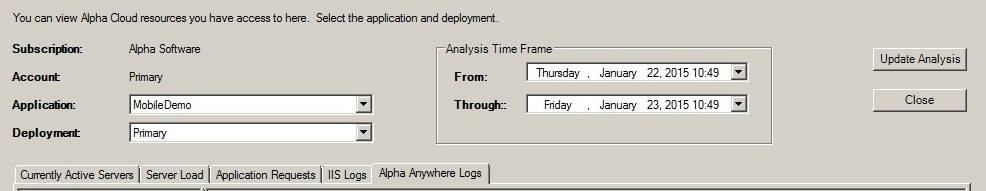
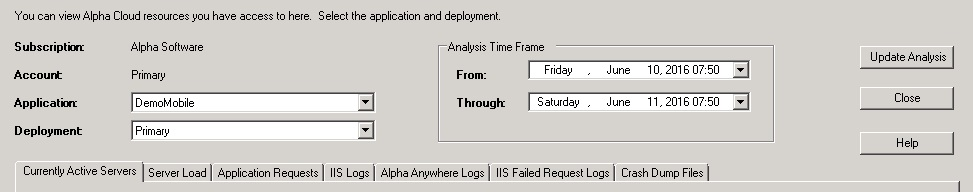
Alpha Cloud - Update screen shots for Cloud View dialog. - Add screen shots and text for Failed Requests and Crash Dump Files tabs.

diff --git a/helpfiles/Guides/Alpha Cloud/Alpha Anywhere Developers Guide/Cloud View.html b/helpfiles/Guides/Alpha Cloud/Alpha Anywhere Developers Guide/Cloud View.html
@@ -21,6 +21,8 @@
 <p><a href="#CloudViewApplicationRequests">The ApplicationRequests Tab Page</a></p>
 <p><a href="#CloudViewIISLogs">The IIS Logs Tab Page</a></p>
 <p><a href="#CloudViewAlphaAnywhereLogs">The Alpha Anywhere Logs Tab Page</a></p>
+<p><a href="#CloudViewIISFailedRequestLogs">The IIS Failed Request Logs Tab Page</a></p>
+<p><a href="#CloudViewCrashDumpFiles">The Crash Dump Files Tab Page</a></p>
 
 
 <h3><a id="CloudViewDialog">The Cloud View Dialog</a></h3>
@@ -110,7 +112,7 @@ To save the current chart to an image file, click the button labeled "Save Chart
 <br/>
 
 <h3><a id="CloudViewIISLogs">The IIS Logs Tab Page</a></h3>
-<p>IIs creates log files for your application to record requests for resources.  These can include web pages, images, reports, and AJAX callbacks.</p><br/>
+<p>IIS creates log files for your application to record requests for resources.  These can include web pages, images, reports, and AJAX callbacks.</p><br/>
 <p>Alpha Cloud configures the Advanced Logging Module from Microsoft to create one log for each deployed application each hour that your application is deployed on that server.  Alpha Cloud automatically copies the logs from the running server to cloud storage.  The logs can be retrieved and reviewed at a later time even if the server itself is terminated.</p><br/>
 <p>The IIS Logs tab page lists the logs created during the time you specified as your analysis time frame and presents them in a tree view display by host name and then date and time and then displays them again by date and time and then by host name.  If you open the tree view to the lowest level in the tree and double click on that entry, the log is retrieved and displayed in the text box on the right-hand pane of the dialog.</p> 
 <br/>
@@ -131,17 +133,52 @@ To save the current chart to an image file, click the button labeled "Save Chart
 	</ul>
 	  
 <br/>
-<h4><a id="CloudViewalphaAnywhereLogsContent">The Alpha Anywhere Logs Content Tab</a></h4>
+<h4><a id="CloudViewAlphaAnywhereLogsContent">The Alpha Anywhere Logs Content Tab</a></h4>
 <img  src="ScreenShots/CloudViewAlphaAnywhereLogsContentSmall.jpg">
 <p class="fullsizeimagelink"><a href="ScreenShots/CloudViewAlphaAnywhereLogsContent.jpg">View a Full Sized Image</a></p>
 
 <br/>
 <br/>
 <br/>
-<h4><a id="CloudViewalphaAnywhereLogsText">The Alpha Anywhere Logs Text Tab</a></h4>
+<h4><a id="CloudViewAlphaAnywhereLogsText">The Alpha Anywhere Logs Text Tab</a></h4>
 <img  src="ScreenShots/CloudViewAlphaAnywhereLogsTextSmall.jpg">
 <p class="fullsizeimagelink"><a href="ScreenShots/CloudViewAlphaAnywhereLogsText.jpg">View a Full Sized Image</a></p>
 
+
+<h3><a id="CloudViewFailedRequestLogs">The IIS Failed Request Logs Tab Page</a></h3>
+<p>When You select Diagnostic, Complete, or Debugging log level for your deployment, Alpha Anywhere for IIS enables IIS failed request logging.</p><br/>
+<p>Alpha Cloud automatically copies the logs from the running server to cloud storage.  The logs can be retrieved and reviewed at a later time, even if the server itself is terminated.</p></br>
+<p>The IIS Failed Request Logs tab page lists the logs created during the time you specified as your analysis time frame and presents them in a tree view display by host name and then date and time and then displays them again by date and time and then by host name.</p><br/>
+<p>If you open the tree view to the lowest level in the tree and double click on that entry, the log is retrieved and displayed on the right hand- pane of the dialog.</p><br/>
+<p>The display pane for failed request logs has two tabs within it.</p>
+	<ul>
+	<li>The <a href="#CloudViewIISFailedRequestLogsFailedRequest">Failed Request</a> tab displays log using an XSL transform file generated by IIS that provides a rich browseable interface..</li>
+	<li>The <a href="#CloudViewIISFailedRequestLogsXML">XML</a> tab displays the raw contents of the log (an XML file).</li>
+	</ul>
+	  
+<br/>
+<h4><a id="CloudViewIISFailedRequestLogsFailedRequest">The IIS Failed Request Logs Failed Request Tab</a></h4>
+<img  src="ScreenShots/CloudViewIISFailedRequestLogsSmall.jpg">
+<p class="fullsizeimagelink"><a href="ScreenShots/CloudViewIISFailedRequestLogs.jpg">View a Full Sized Image</a></p>
+
+<br/>
+<br/>
+<br/>
+<h4><a id="CloudViewIISFailedRequestLogsXML">The IIS Failed Request Logs XML Text Tab</a></h4>
+<img  src="ScreenShots/CloudViewIISFailedRequestLogsXMLSmall.jpg">
+<p class="fullsizeimagelink"><a href="ScreenShots/CloudViewIISFailedRequestLogsXML.jpg">View a Full Sized Image</a></p>
+
+
+<h3><a id="CloudViewCrashDumpFiles">The Crash Dump Files Tab Page</a></h3>
+<p>A MiniDump file will be created if you explicitly request it XBasic or in the event of an unhandled exception.</p><br/>
+<p>Alpha Cloud automatically copies MiniDump files from the running server to cloud storage.  
+The dump files can be retrieved and reviewed at a later time even if the server itself is terminated.</p><br/>
+<p>The Crash Dump Files tab page lists the MiniDump files created during the time you specified as your analysis time frame and presents them in a tree view display by host name and then date and time and then displays them again by date and time and then by host name.  If you open the tree view to the lowest level in the tree and double click on that entry, the log is retrieved and displayed in the text box on the right-hand pane of the dialog.</p> 
+<br/>
+<img  src="ScreenShots/CloudViewCrashDumpFilesSmall.jpg">
+<p class="fullsizeimagelink"><a href="ScreenShots/CloudViewCrashDumpFiles.jpg">View a Full Sized Image</a></p>
+<br/>
+<br/>
 
 </body>
 
